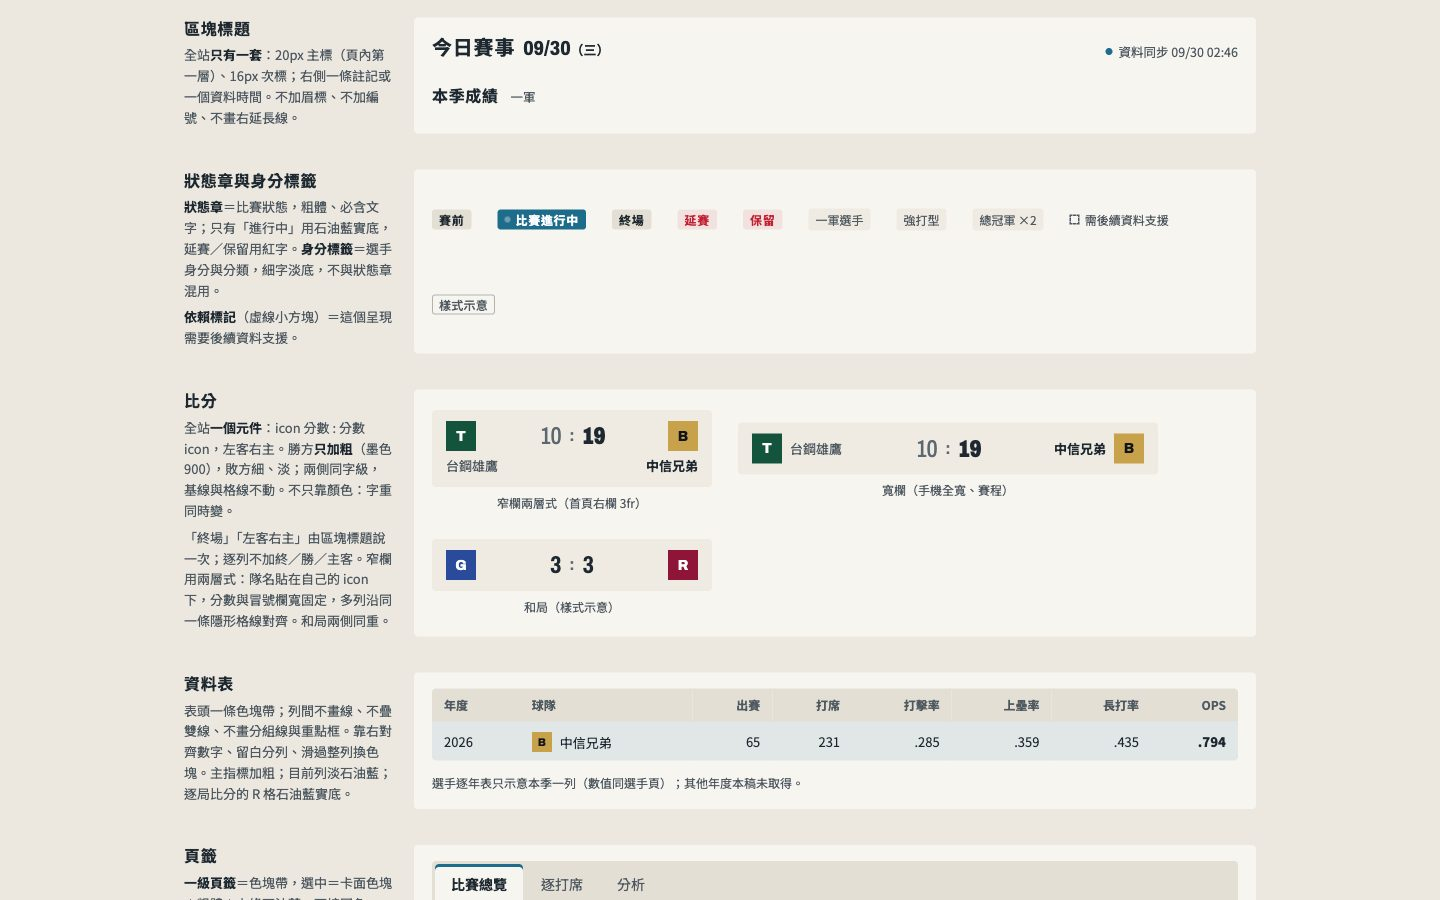
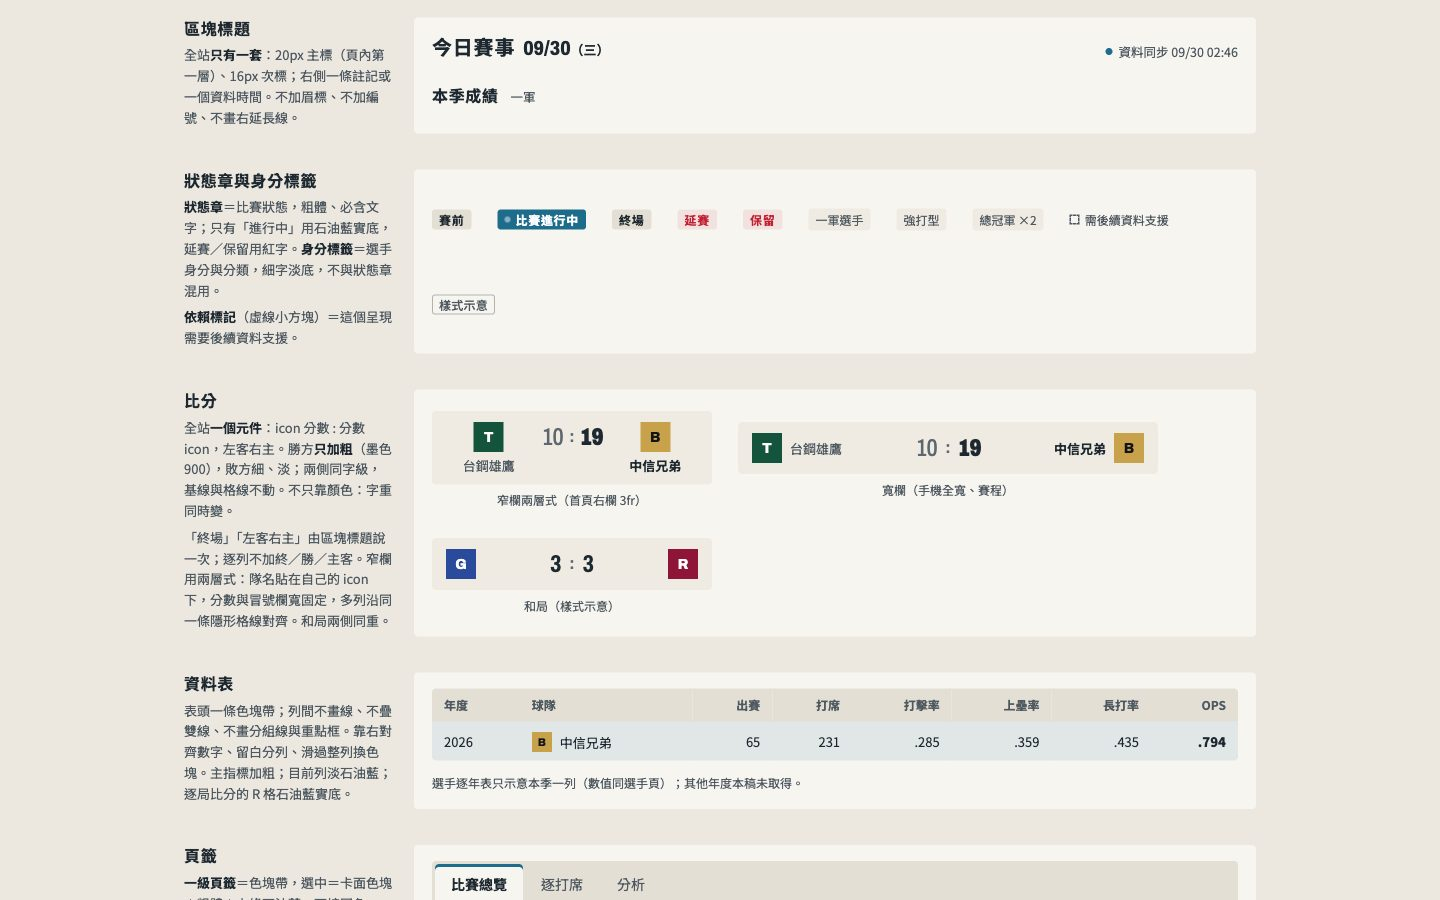
docs: rebalance #218 home result cards and stop truncating team names
筆電回饋：賽果隊名出現省略號、整體排版不協調。共用 .score .nm 移除 nowrap／ellipsis，
隊名完整顯示、窄時自然換行；兩層式比分改成每隊 icon＋隊名一組置中在自己那半邊、比分在中軸，
場次・球場降為比分下方說明，消除靠邊與置中兩套對齊軸混用。比分同字級、左右逐列對齊不變。

Changed region(s): [[0.3125, 0.4667, 0.5, 0.5911], [0.375, 0.6533, 0.4375, 0.6844]]

diff --git a/design/brand-218/proposal/home.html b/design/brand-218/proposal/home.html
@@ -58,12 +58,14 @@
   .xrow .why { font-size: 12px; color: var(--muted); }
   .xrow.empty { padding-right: 14px; }
 
-  /* 賽果：序號列（場次・球場）＋比分元件兩層式（隊名貼在自己的 icon 下）。資料皆為 DailyGame 既有欄位。 */
+  /* 賽果：比分元件兩層式（每隊 icon＋隊名一組）＋下方序號列（場次・球場）。資料皆為 DailyGame 既有欄位。 */
   .rlist { list-style: none; margin: 0; padding: 0; }
   .rlist li { display: grid; }
   .rlist a { display: grid; align-content: center; gap: 6px; padding: 10px 14px; background: var(--card); color: inherit; text-decoration: none; border-radius: var(--r-panel); transition: background-color .15s var(--ease); }
   .rlist a:hover { background: var(--card-2); }
-  .rlist .serial { justify-content: center; }
+  /* 序號／球場＝比分下方的說明，不再壓在最上方搶先被讀；字距收緊、分隔點兩側等距 */
+  .rlist .serial { justify-content: center; gap: 0; letter-spacing: .04em; font-size: 11.5px; font-weight: 500; margin-top: 3px; }
+  .rlist .serial span + span::before { content: "·"; margin: 0 6px; }
 
   .tscroll { overflow-x: auto; border-radius: var(--r-panel); }
   .stand td.rk { color: var(--muted); width: 2.5em; }
@@ -165,16 +167,16 @@
       <h3 class="sr" id="res-h">09/28 賽果，左客右主</h3>
       <ol class="rlist">
         <li><a href="live.html" aria-label="No.358 洲際，終場：台鋼雄鷹（客）10 比 19 中信兄弟（主），中信兄弟勝。開啟單場賽況">
-          <span class="serial" aria-hidden="true"><span>No.358</span><span>洲際</span></span>
           <span class="score stack" aria-hidden="true"><span class="ti a" style="--team:#15543C">T</span><span class="n a">10</span><span class="colon">:</span><span class="n h w">19</span><span class="ti h warm" style="--team:#C8A24A">B</span><span class="nm a">台鋼雄鷹</span><span class="nm h w">中信兄弟</span></span>
+          <span class="serial" aria-hidden="true"><span>No.358</span><span>洲際</span></span>
         </a></li>
         <li><a href="#" aria-label="No.359 樂天桃園，終場：統一7-ELEVEn獅（客）7 比 4 樂天桃猿（主），統一7-ELEVEn獅勝">
-          <span class="serial" aria-hidden="true"><span>No.359</span><span>樂天桃園</span></span>
           <span class="score stack" aria-hidden="true"><span class="ti a warm" style="--team:#E35A13">L</span><span class="n a w">7</span><span class="colon">:</span><span class="n h">4</span><span class="ti h" style="--team:#8E1537">R</span><span class="nm a w">統一7-ELEVEn獅</span><span class="nm h">樂天桃猿</span></span>
+          <span class="serial" aria-hidden="true"><span>No.359</span><span>樂天桃園</span></span>
         </a></li>
         <li><a href="#" aria-label="No.360 新莊，終場：味全龍（客）4 比 2 富邦悍將（主），味全龍勝">
-          <span class="serial" aria-hidden="true"><span>No.360</span><span>新莊</span></span>
           <span class="score stack" aria-hidden="true"><span class="ti a" style="--team:#C8102E">W</span><span class="n a w">4</span><span class="colon">:</span><span class="n h">2</span><span class="ti h" style="--team:#2A4B9B">G</span><span class="nm a w">味全龍</span><span class="nm h">富邦悍將</span></span>
+          <span class="serial" aria-hidden="true"><span>No.360</span><span>新莊</span></span>
         </a></li>
       </ol>
     </section>

diff --git a/design/brand-218/proposal/postmark.css b/design/brand-218/proposal/postmark.css
@@ -128,22 +128,27 @@ a:focus-visible, button:focus-visible, [role="tab"]:focus-visible, input:focus-v
 .block { background: var(--card); padding: 16px 18px; border-radius: var(--r-panel); }
 
 /* ── 比分（全站唯一一個元件）：icon 分數 : 分數 icon。勝方＝粗黑；敗方＝細、淡。兩側同字級，基線與格線不動。
-   「終場／客主」由所在區塊標題說一次（元件級），完整句子寫在 aria-label；隊名只在寬度允許時出現 ── */
+   「終場／客主」由所在區塊標題說一次（元件級），完整句子寫在 aria-label ── */
 .score { display: grid; grid-template-columns: auto minmax(0, 1fr) auto auto auto minmax(0, 1fr) auto; align-items: center; column-gap: 8px; }
 .score .ti { --s: 30px; font-size: 14px; }
 .score .n { font: 500 24px/1 var(--wide); font-stretch: 72%; color: var(--faint); min-width: 1.3em; }
 .score .n.a { text-align: right; grid-column: 3; } .score .n.h { text-align: left; grid-column: 5; }
 .score .n.w { font-weight: 900; color: var(--ink); }
 .score .colon { grid-column: 4; font: 700 16px/1 var(--wide); color: var(--faint); }
-.score .nm { font-size: 13px; color: var(--muted); white-space: nowrap; overflow: hidden; text-overflow: ellipsis; }
+/* 隊名一律完整顯示：不截斷、不加省略號；空間不夠時自然換行（CJK 不在詞中斷開） */
+.score .nm { font-size: 13px; line-height: 1.3; color: var(--muted); word-break: keep-all; text-wrap: balance; }
 .score .nm.a { grid-column: 2; } .score .nm.h { grid-column: 6; text-align: right; }
 .score .nm.w { color: var(--ink); font-weight: 700; }
 .score .ti.a { grid-column: 1; } .score .ti.h { grid-column: 7; }
 .score.tie .n, .score.tie .nm { color: var(--ink); font-weight: 700; }
-/* 兩層式（窄欄）：第一層 icon 分數 : 分數 icon；第二層隊名貼在自己的 icon 下。分數與冒號欄寬固定，多列時沿同一條隱形格線對齊 */
-.score.stack { grid-template-columns: auto minmax(0, 1fr) 34px auto 34px minmax(0, 1fr) auto; row-gap: 4px; }
-.score.stack .nm { grid-row: 2; }
-.score.stack .nm.a { grid-column: 1 / 4; text-align: left; } .score.stack .nm.h { grid-column: 5 / 8; text-align: right; }
+/* 兩層式（窄欄）：每隊 icon＋隊名收成一組，置中在自己那半邊；比分夾在正中。
+   全卡只有一條中軸：兩半等寬（1fr），分數欄與冒號欄固定寬，多列沿同一條隱形格線對齊 */
+.score.stack { grid-template-columns: minmax(0, 1fr) 26px auto 26px minmax(0, 1fr); column-gap: 6px; row-gap: 5px; }
+.score.stack .ti.a { grid-column: 1; justify-self: center; } .score.stack .ti.h { grid-column: 5; justify-self: center; }
+.score.stack .n { min-width: 0; }
+.score.stack .n.a { grid-column: 2; } .score.stack .colon { grid-column: 3; } .score.stack .n.h { grid-column: 4; }
+.score.stack .nm { grid-row: 2; text-align: center; }
+.score.stack .nm.a { grid-column: 1; } .score.stack .nm.h { grid-column: 5; }
 
 /* ── 資料表：表頭色塊帶＋欄位對齊＋留白；不畫列間線、不疊雙線 ── */
 table.data { border-collapse: separate; border-spacing: 0; width: 100%; background: var(--card); font-size: 13px; border-radius: var(--r-panel); overflow: hidden; }

diff --git a/design/brand-218/proposal/components.html b/design/brand-218/proposal/components.html
@@ -127,7 +127,7 @@
   </section>
 
   <section class="row" id="score">
-    <div class="rule"><h2>比分</h2><p>全站<b>一個元件</b>：icon 分數 : 分數 icon，左客右主。勝方<b>只加粗</b>（墨色 900），敗方細、淡；兩側同字級，基線與格線不動。不只靠顏色：字重同時變。</p><p>「終場」「左客右主」由區塊標題說一次；逐列不加終／勝／主客。窄欄用兩層式：隊名貼在自己的 icon 下，分數與冒號欄寬固定，多列沿同一條隱形格線對齊。和局兩側同重。</p></div>
+    <div class="rule"><h2>比分</h2><p>全站<b>一個元件</b>：icon 分數 : 分數 icon，左客右主。勝方<b>只加粗</b>（墨色 900），敗方細、淡；兩側同字級，基線與格線不動。不只靠顏色：字重同時變。</p><p>「終場」「左客右主」由區塊標題說一次；逐列不加終／勝／主客。窄欄用兩層式：每隊 icon＋隊名收成一組、置中在自己那半邊，比分夾在中軸；隊名完整顯示、不截斷，空間不夠時自然換行。分數與冒號欄寬固定，多列沿同一條隱形格線對齊。和局兩側同重。</p></div>
     <div class="demo">
       <figure><div class="scorebox" aria-label="台鋼雄鷹 10 比 19 中信兄弟，中信兄弟勝"><span class="score stack" aria-hidden="true"><span class="ti a" style="--team:#15543C">T</span><span class="n a">10</span><span class="colon">:</span><span class="n h w">19</span><span class="ti h warm" style="--team:#C8A24A">B</span><span class="nm a">台鋼雄鷹</span><span class="nm h w">中信兄弟</span></span></div><figcaption class="cap">窄欄兩層式（首頁右欄 3fr）</figcaption></figure>
       <figure><div class="scorebox wide" aria-label="台鋼雄鷹 10 比 19 中信兄弟，中信兄弟勝"><span class="score" aria-hidden="true"><span class="ti a" style="--team:#15543C">T</span><span class="nm a">台鋼雄鷹</span><span class="n a">10</span><span class="colon">:</span><span class="n h w">19</span><span class="nm h w">中信兄弟</span><span class="ti h warm" style="--team:#C8A24A">B</span></span></div><figcaption class="cap">寬欄（手機全寬、賽程）</figcaption></figure>

diff --git a/design/brand-218/proposal/index.html b/design/brand-218/proposal/index.html
@@ -64,6 +64,7 @@
       <li>首頁桌機 7:3：左右兩欄共用同一組列軌，第 n 張今日票券與第 n 筆賽果頂底對齊；兩側仍各有日期標題，不是同一場。場數不同時少的一側留空，不補場次。手機照舊上下排。</li>
       <li>賽果每列補上場次、球場與兩隊隊名（皆為既有欄位）。MVP 沒有可靠來源（最近比賽日型別無此欄），不放，標為後續資料支援。</li>
       <li>移除今日票券的淺藍票根底，保留撕線與郵戳，讓底版層次與狀態章清楚。</li>
+      <li>賽果卡重排（筆電回饋）：每隊 icon＋隊名收成一組置中在自己那半邊，比分在中軸，場次・球場降為比分下方的說明；隊名不再用省略號截斷，窄時自然換行。</li>
     </ol>
 
     <h3>相對 palette.html 1「郵戳」的調整</h3>
